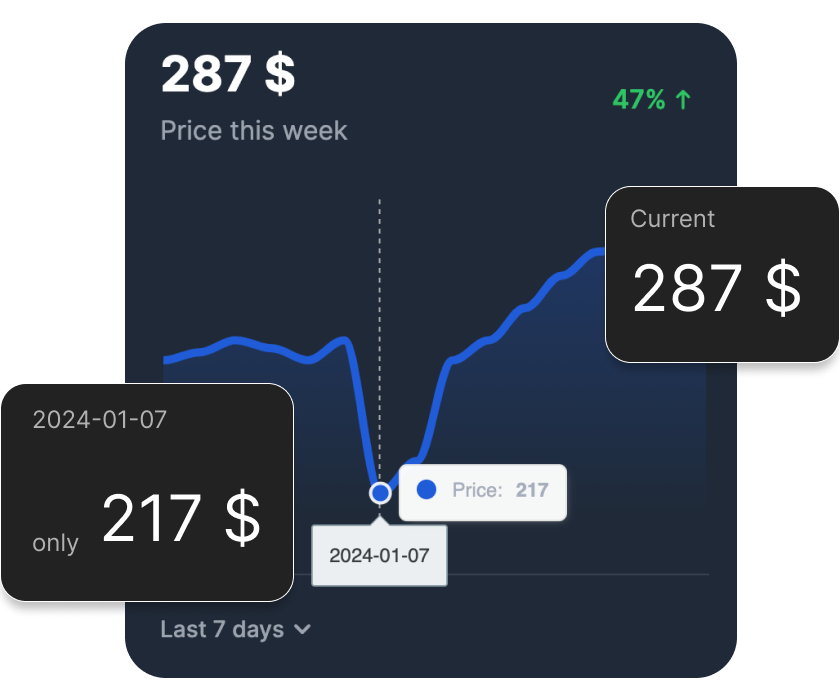
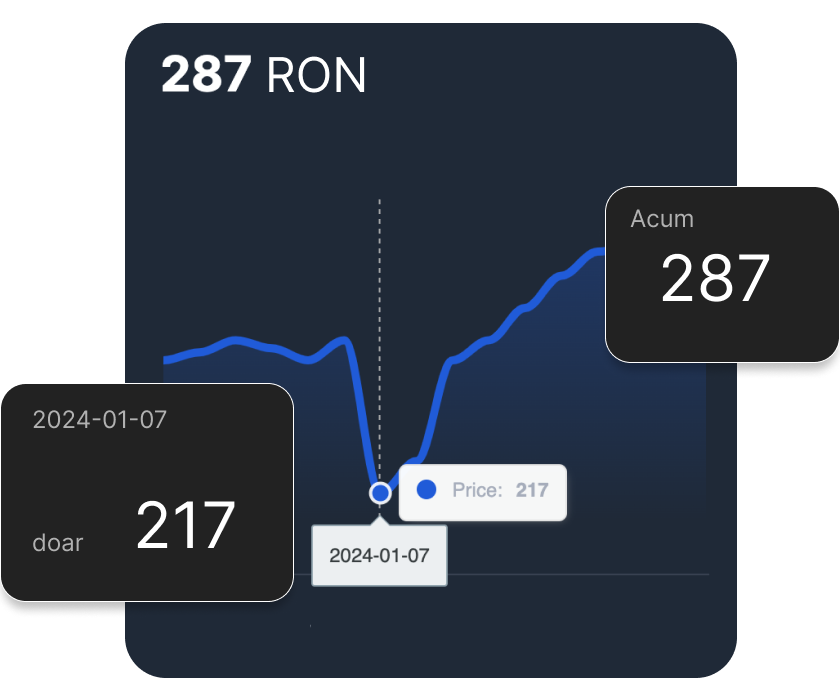
dev :  removed categories + translated in Romanian

diff --git a/components/FeaturesAccordion.js b/components/FeaturesAccordion.js
@@ -13,12 +13,12 @@ import { track } from '@vercel/analytics';
 // - alt: The alt text of the image (if type is 'image')
 const features = [
   {
-    title: "Alerts",
+    title: "Alerte",
     description:
-      "We send you automatic email alerts to ensure you never miss a price drop on your favorite products.",
+      "Recepționați notificări detaliate prin e-mail în momentul în care apar modificări de preț pentru produsele selectate, asigurându-vă astfel că rămâneți mereu la curent cu cele mai recente ajustări de tarife și oferte avantajoase.",
     type: "image",
     path: `${process.env.NODE_ENV === "development" ? "" : "https://MagSpy.app"}/emailExample.png`,
-    alt: "A computer",
+    alt: "Alert email example",
     svg: (
       <svg className="w-6 h-6 text-gray-800 dark:text-white" aria-hidden="true" xmlns="http://www.w3.org/2000/svg" width="24" height="24" fill="white" viewBox="0 0 24 24">
         <path d="M11.209 3.816a1 1 0 0 0-1.966.368l.325 1.74a5.338 5.338 0 0 0-2.8 5.762l.276 1.473.055.296c.258 1.374-.228 2.262-.63 2.998-.285.52-.527.964-.437 1.449.11.586.22 1.173.75 1.074l12.7-2.377c.528-.1.418-.685.308-1.27-.103-.564-.636-1.123-1.195-1.711-.606-.636-1.243-1.306-1.404-2.051-.233-1.085-.275-1.387-.303-1.587-.009-.063-.016-.117-.028-.182a5.338 5.338 0 0 0-5.353-4.39l-.298-1.592Z" />
@@ -29,9 +29,9 @@ const features = [
     ),
   },
   {
-    title: "Customise Alerts",
+    title: "Personalizare alerte",
     description:
-      "You can personalise your alerts to receive notifications only when the price drop, rises or is a custom value.",
+      "Aveți posibilitatea de a personaliza în detaliu alertele, astfel încât să primiți notificări doar pentru fluctuațiile de preț care corespund intereselor dumneavoastră. Puteți defini praguri de preț specifice și ajusta frecvența de primire a notificărilor, pentru a fi informat doar atunci când prețurile ating valorile dorite.",
     type: "image",
     path: `${process.env.NODE_ENV === "development" ? "" : "https://MagSpy.app"}/alertsEditExample.png`,
     alt: "A computer",
@@ -44,9 +44,9 @@ const features = [
     ),
   },
   {
-    title: "AI Technology",
+    title: "Tehnologie AI",
     description:
-      "We use AI to get the data about the products you want to monitor. This ensures you get the most accurate and up-to-date information.",
+      "Utilizăm inteligența artificială pentru a colecta și analiza datele referitoare la produsele pe care doriți să le monitorizați, garantând astfel accesul la cele mai precise și actualizate informații disponibile. Acest proces avansat asigură o monitorizare continuă și detaliată, oferindu-vă un avantaj competitiv în luarea deciziilor de cumpărare.",
       svg: (
       <svg className="w-[24px] h-[24px] text-gray-800 dark:text-white" aria-hidden="true" xmlns="http://www.w3.org/2000/svg" width="24" height="24" fill="white"  viewBox="0 0 24 24">
         <path fillRule="evenodd" d="M17.44 3a1 1 0 0 1 .707.293l2.56 2.56a1 1 0 0 1 0 1.414L18.194 9.78 14.22 5.806l2.513-2.513A1 1 0 0 1 17.44 3Zm-4.634 4.22-9.513 9.513a1 1 0 0 0 0 1.414l2.56 2.56a1 1 0 0 0 1.414 0l9.513-9.513-3.974-3.974ZM6 6a1 1 0 0 1 1 1v1h1a1 1 0 0 1 0 2H7v1a1 1 0 1 1-2 0v-1H4a1 1 0 0 1 0-2h1V7a1 1 0 0 1 1-1Zm9 9a1 1 0 0 1 1 1v1h1a1 1 0 1 1 0 2h-1v1a1 1 0 1 1-2 0v-1h-1a1 1 0 1 1 0-2h1v-1a1 1 0 0 1 1-1Z" clipRule="evenodd" />
@@ -56,9 +56,9 @@ const features = [
     ),
   },
   {
-    title: "Graphs and Charts",
+    title: "Grafice și diagrame",
     description:
-      "We provide you with graphs and charts to help you understand the price trends of the products you are monitoring.",
+      "Vă punem la dispoziție grafice și diagrame interactive, concepute pentru a vă oferi o perspectivă clară asupra tendințelor de preț ale produselor pe care le monitorizați. Aceste instrumente vizuale vă ajută să analizați fluctuațiile în timp real și să identificați cele mai bune momente pentru achiziție.",
     type: "image",
     path: `${process.env.NODE_ENV === "development" ? "" : "https://MagSpy.app"}/graphsExample.png`,
     
@@ -166,9 +166,9 @@ const FeaturesAccordion = () => {
     >
       <div className="px-8">
         <h2 className="font-extrabold text-4xl lg:text-6xl tracking-tight mb-12 md:mb-24">
-          All you need to monitor prices and purchase
+            Tot ce ai nevoie pentru a monitoriza prețurile
           <span className="bg-neutral text-neutral-content px-2 md:px-4 ml-1 md:ml-1.5 leading-relaxed whitespace-nowrap">
-            at the best
+          eficient
           </span>
         </h2>
         <div className=" flex flex-col md:flex-row gap-12 md:gap-24">

diff --git a/app/dashboard/products/[productId]/alerts/[alertId]/page.js b/app/dashboard/products/[productId]/alerts/[alertId]/page.js
@@ -20,20 +20,20 @@ export default async function EditAlertPage({ params:{ alertId , productId } }) 
         <DeleteAlertDialogue alertId={alertId} productId={productId}/>
       </div>
 
-      <h1 className="text-xl m-5">Edit <span className='text-white text-2xl'>{alertData.name}</span></h1>
+      <h1 className="text-xl m-5">Modifica <span className='text-white text-2xl'>{alertData.name}</span></h1>
 
       <form action={EditAlert}  className="max-w-sm mx-auto">
         <input type="text" name="productId" value={productId} className="hidden" />
         <input type="text" name="alertId" value={alertId} className="hidden" />
         <div className="mb-5">
-          <label className="block mb-2 text-sm font-medium text-gray-900 dark:text-white">Rename your alert</label>
+          <label className="block mb-2 text-sm font-medium text-gray-900 dark:text-white">Redenumeste alerta</label>
           {/* <input type="text" name="name" class="bg-gray-50 border border-gray-300 text-gray-900 text-sm rounded-lg focus:ring-blue-500 focus:border-blue-500 block w-full p-2.5 dark:bg-gray-700 dark:border-gray-600 dark:placeholder-gray-400 dark:text-white dark:focus:ring-blue-500 dark:focus:border-blue-500" placeholder={alertData.name} required /> */}
           <EditTextInput name={"name"} placeholder={alertData.name} />
         </div>
         <div className="mb-5">
-          <label className="block mb-2 text-sm font-medium text-gray-900 dark:text-white">Alert me when</label>
+          <label className="block mb-2 text-sm font-medium text-gray-900 dark:text-white">Trimite o alerta cand</label>
           <div className='flex justify-center items-center'>
-            <p className='w-1/3'>Product Price</p>
+            <p className='w-1/3'>Pretul produsului</p>
 
             <AlertTypeSelector currentType={alertData.typeof} />
 
@@ -42,12 +42,13 @@ export default async function EditAlertPage({ params:{ alertId , productId } }) 
           </div>
         </div>
 
-        <button type="submit" className="text-white bg-blue-500 hover:bg-blue-800 focus:ring-4 focus:outline-none focus:ring-blue-300 font-medium rounded-lg text-sm w-full sm:w-auto px-5 py-2.5 text-center dark:bg-blue-600 dark:hover:bg-blue-700 dark:focus:ring-blue-800">Update</button>
+        <button type="submit" className="text-white bg-blue-500 hover:bg-blue-800 focus:ring-4 focus:outline-none focus:ring-blue-300 font-medium rounded-lg text-sm w-full sm:w-auto px-5 py-2.5 text-center dark:bg-blue-600 dark:hover:bg-blue-700 dark:focus:ring-blue-800">Modifica</button>
       </form>
       
     </div>):(
       <div className="flex justify-center items-center h-96">
-        <h1 className="text-2xl text-gray-500">This product is not available anymore in the free plan. Please upgrade to manage this product.</h1>
+        <h1 className="text-2xl text-gray-500">Acest produs nu mai este disponibil în planul gratuit. Vă rugăm să faceți upgrade pentru a gestiona acest produs.
+        </h1>
       </div>
     )
   );

diff --git a/components/FAQ.js b/components/FAQ.js
@@ -8,22 +8,19 @@ import { track } from '@vercel/analytics';
 
 const faqList = [
   {
-    question: "What do I get exactly?",
-    answer: <div className="space-y-2 leading-relaxed">You get a tool that helps you track the prices of your favorite products. You can set up alerts and get notified when the price drops. You can also see the price history of the products you are tracking.</div>,
+    question: "Ce primesc mai exact?",
+    answer: <div className="space-y-2 leading-relaxed">Obțineți un instrument care vă ajută să urmăriți prețurile produselor preferate. Puteți configura alerte și puteți primi notificări când prețul scade. De asemenea, puteți vedea istoricul prețurilor produselor pe care le urmăriți.</div>,
   },
   {
-    question: "Can I get a refund?",
+    question: "Pot primi o rambursare?",
     answer: (
-      <p>
-        Yes! You can request a refund within 7 days of your purchase. Reach out
-        by email.
-      </p>
+      <p> Da! Puteți solicita o rambursare în termen de 7 zile de la achiziție. Contactați prin e-mail sau <span><a className="text-white text-bold" href="/support">aici</a></span>.</p>
     ),
   },
   {
-    question: "How does this app checks the prices?",
+    question: "Cum verifică această aplicație prețurile?",
     answer: (
-      <div className="space-y-2 leading-relaxed">We use advanced algorithms to get the prices of the products you are tracking. We also use the latest technologies to make sure the prices are accurate.</div>
+      <div className="space-y-2 leading-relaxed">Folosim algoritmi avansați pentru a obține prețurile produselor pe care le monitorizati. De asemenea, folosim cele mai noi tehnologii pentru a ne asigura că prețurile sunt corecte.</div>
     ),
   },
 ];
@@ -96,7 +93,7 @@ const FAQ = () => {
         <div className="flex flex-col text-left basis-1/2">
           <p className="inline-block font-semibold text-primary mb-4">FAQ</p>
           <p className="sm:text-4xl text-3xl font-extrabold text-base-content">
-            Frequently Asked Questions
+          Întrebări frecvente
           </p>
         </div>
 

diff --git a/components/own/dashboard/DeleteProductDialogue.js b/components/own/dashboard/DeleteProductDialogue.js
@@ -47,13 +47,13 @@ export default function DeleteProductDialogue({ productId }) {
                 <svg className="mx-auto mb-4 text-gray-400 w-12 h-12 dark:text-gray-200" aria-hidden="true" xmlns="http://www.w3.org/2000/svg" fill="none" viewBox="0 0 20 20">
                   <path stroke="currentColor" strokeLinecap="round" strokeLinejoin="round" strokeWidth="2" d="M10 11V6m0 8h.01M19 10a9 9 0 1 1-18 0 9 9 0 0 1 18 0Z" />
                 </svg>
-                <h3 className="mb-5 text-lg font-normal text-gray-500 dark:text-gray-400">Are you sure you want to delete this product?</h3>
+                <h3 className="mb-5 text-lg font-normal text-gray-500 dark:text-gray-400">Sigur doriți să ștergeți acest produs? </h3>
                 <button
                   onClick={deleteProduct}
                   type="button"
                   className="text-white bg-red-600 hover:bg-red-800 focus:ring-4 focus:outline-none focus:ring-red-300 dark:focus:ring-red-800 font-medium rounded-lg text-sm inline-flex items-center px-5 py-2.5 text-center"
                 >
-                  Yes, I am sure
+                  Da, doresc să șterg
                 </button>
 
                 <button
@@ -61,7 +61,7 @@ export default function DeleteProductDialogue({ productId }) {
                   type="button"
                   className="py-2.5 px-5 ms-3 text-sm font-medium text-gray-900 focus:outline-none bg-white rounded-lg border border-gray-200 hover:bg-gray-100 hover:text-blue-700 focus:z-10 focus:ring-4 focus:ring-gray-100 dark:focus:ring-gray-700 dark:bg-gray-800 dark:text-gray-400 dark:border-gray-600 dark:hover:text-white dark:hover:bg-gray-700"
                 >
-                  No, cancel
+                  Anulează
                 </button>
               </div>
             </div>

diff --git a/components/Footer.js b/components/Footer.js
@@ -40,7 +40,7 @@ const Footer = () => {
           <div className="flex-grow flex flex-wrap justify-center -mb-10 md:mt-0 mt-10 text-center">
             <div className="lg:w-1/3 md:w-1/2 w-full px-4">
               <div className="footer-title font-semibold text-base-content tracking-widest text-sm md:text-left mb-3">
-                LINKS
+              LINK-URI WEB
               </div>
 
               <div className="flex flex-col justify-center items-center md:items-start gap-2 mb-10 text-sm">
@@ -51,11 +51,11 @@ const Footer = () => {
                     className="link link-hover"
                     aria-label="Contact Support"
                   >
-                    Support
+                    Suport
                   </a>
                 )}
                 <a href="/#pricing" className="link link-hover">
-                  Pricing
+                  Prețuri
                 </a>
                 {/* <a href="/blog" className="link link-hover">
                   Blog
@@ -68,15 +68,15 @@ const Footer = () => {
 
             <div className="lg:w-1/3 md:w-1/2 w-full px-4">
               <div className="footer-title font-semibold text-base-content tracking-widest text-sm md:text-left mb-3">
-                LEGAL
+                LEGALE
               </div>
 
               <div className="flex flex-col justify-center items-center md:items-start gap-2 mb-10 text-sm">
                 <a href="/terms" className="link link-hover">
-                  Terms and conditions
+                  Termeni și condiții
                 </a>
                 <a href="/privacy-policy" className="link link-hover">
-                  Privacy policy
+                  Politica de confidențialitate
                 </a>
               </div>
             </div>

diff --git a/components/own/dashboard/PriceChart.js b/components/own/dashboard/PriceChart.js
@@ -3,7 +3,6 @@
 import React, { useEffect, useState } from 'react';
 import dynamic from 'next/dynamic';
 import { getPriceHistory } from "@/libs/API/price";
-import { se } from 'date-fns/locale';
 
 // Dynamically import the ReactApexChart component with no SSR
 const ReactApexChart = dynamic(() => import('react-apexcharts'), { ssr: false });
@@ -81,7 +80,7 @@ export default function PriceChart({ productId }) {
     },
     series: [
       {
-        name: "Price",
+        name: "Preț",
         data: prices,
         color: "#1A56DB",
       },
@@ -108,7 +107,7 @@ export default function PriceChart({ productId }) {
       <div className="flex justify-between">
         <div>
           <h5 className="leading-none text-3xl font-bold text-gray-900 dark:text-white pb-2">{prices[prices.length-1]} {dates.length === 0 ? "" : productData.currency}</h5>
-          <p className="text-base font-normal text-gray-500 dark:text-gray-400">Price graph </p>
+          <p className="text-base font-normal text-gray-500 dark:text-gray-400">Pretul actual</p>
         </div>
         <div className="flex items-center px-2.5 py-0.5 text-base font-semibold text-green-500 dark:text-green-500 text-center">
           {/* {grow_percent} */}
@@ -123,7 +122,7 @@ export default function PriceChart({ productId }) {
             <div className="w-10 h-10 border-2 border-t-2 border-gray-200 rounded-full animate-spin">
               <h1>.</h1>
             </div>
-            <h1 className='m-5'>No data yet!</h1>
+            <h1 className='m-5'>Nu există date încă !</h1>
           </div>
         ) : (
           <ReactApexChart options={options} series={options.series} type="area" height="300%" width="100%" />

diff --git a/config.js b/config.js
@@ -25,15 +25,15 @@ const config = {
             ? "price_1Niyy5AxyNprDp7iZIqEyD2h"
             : "price_456",
         //  REQUIRED - Name of the plan, displayed on the pricing page
-        name: "Starter",
+        name: "Începător",
         // A friendly description of the plan, displayed on the pricing page. Tip: explain why this plan and not others
-        description: "Test this app for free",
+        description: "Testați această aplicație gratuit",
         // The price you want to display, the one user will be charged on Stripe.
         price: 0,
         // If you have an anchor price (i.e. $29) that you want to display crossed out, put it here. Otherwise, leave it empty
         features: [
-          { name: "Track 1 product",},
-          { name: "Email notifications" },
+          { name: "Monitorizati 1 produs",},
+          { name: "Notificari pe Email" },
           // { name: "1 customised alert" },
         ],
       },
@@ -45,13 +45,13 @@ const config = {
             ? "price_1PqtBlLcXwqt5lPFnKcVXvxO"
             : "price_1PwlGMLcXwqt5lPFCBrlvQTA",
         name: "Business",
-        description: "You are an entrepreneur, you know what you are doing",
+        description: "Ai nevoie de mai multă putere",
         price: 12,
         priceAnchor: 17,
         features: [
-          {name: "Unlimited products",},
-          { name: "Unlimited alerts" },
-          { name: "Email notifications" },
+          {name: "Produse nelimitate",},
+          { name: "Alerte personalizate nelimitate" },
+          { name: "Notificari pe Email" },
         ],
       },
       // {

diff --git a/components/own/dashboard/AddedObject.js b/components/own/dashboard/AddedObject.js
@@ -6,7 +6,7 @@ import { toast } from "react-hot-toast";
 
 export default function AddedObject({ name, isActive, imageUrl, id ,lastPrice,currency}) {
 	function NotifyUser(){
-		toast.error("This product is not available anymore in the free plan. Please upgrade to access this feature.");
+		toast.error("Acest produs nu mai este disponibil în planul gratuit. Vă rugăm să faceți upgrade pentru a-l accesa.");
 	}
 
 
@@ -32,12 +32,12 @@ export default function AddedObject({ name, isActive, imageUrl, id ,lastPrice,cu
 				<div className="flex items-center justify-between">
 					
 					{isActive ? (<a href={`/dashboard/products/${id}/stats`} className="mt-2 w-auto py-2 px-2 inline-flex items-center px-1 py-1 text-sm font-medium text-center text-white bg-blue-700 rounded-lg hover:bg-blue-800 focus:ring-4 focus:outline-none focus:ring-blue-300 dark:bg-blue-600 dark:hover:bg-blue-700 dark:focus:ring-blue-800">
-						More
+						Detalii
 						<svg className="rtl:rotate-180 w-3.5 h-3.5 ms-1" aria-hidden="true" xmlns="http://www.w3.org/2000/svg" fill="none" viewBox="0 0 14 10">
 							<path stroke="currentColor" strokeLinecap="round" strokeLinejoin="round" strokeWidth="2" d="M1 5h12m0 0L9 1m4 4L9 9" />
 						</svg>
 					</a>) : (<></>)}
-					{lastPrice} {!lastPrice ? "" :currency}
+					{lastPrice?.toString().length >=5 ? lastPrice?.toString().slice(0,5) : lastPrice } {!lastPrice ? "" :currency}
 				</div>
 			</div>
 		</div>

diff --git a/components/Problem.js b/components/Problem.js
@@ -44,22 +44,22 @@ const Problem = () => {
     <section className="bg-neutral text-neutral-content">
       <div className="max-w-7xl mx-auto px-8 py-16 md:py-32 text-center">
         <h2 className="max-w-3xl mx-auto font-extrabold text-4xl md:text-5xl tracking-tight mb-6 md:mb-8">
-          You can&apos;t monitor price changes 24/7
+          Nu puteți monitoriza modificările prețurilor 24/7
         </h2>
         <p className="max-w-xl mx-auto text-lg opacity-90 leading-relaxed mb-12 md:mb-20">
-          Constantly monitoring fluctuating prices is exhausting and impractical
+        Monitorizarea constantă a prețurilor fluctuante este obositoare și nepractică
         </p>
 
         <div className="flex flex-col md:flex-row justify-center items-center md:items-start gap-6">
-          <Step emoji="🧑💻" text="Check price very soon" />
+          <Step emoji="🧑💻" text="Verifici prețul foarte des" />
 
           <Arrow extraStyle="max-md:-scale-x-100 md:-rotate-90" />
 
-          <Step emoji="😮💨" text="You lose focus" />
+          <Step emoji="😮💨" text="Pierzi focusul" />
 
           <Arrow extraStyle="md:-scale-x-100 md:-rotate-90" />
 
-          <Step emoji="😔" text="Even you tried your best, you failed" />
+          <Step emoji="😔" text="Desi ai încercat tot posibilul, ai eșuat !" />
         </div>
       </div>
     </section>

diff --git a/components/own/dashboard/SideBar.js b/components/own/dashboard/SideBar.js
@@ -49,7 +49,7 @@ export default function SideBar({ children }) {
 									<path fillRule="evenodd" d="M14 7h-4v3a1 1 0 0 1-2 0V7H6a1 1 0 0 0-.997.923l-.917 11.924A2 2 0 0 0 6.08 22h11.84a2 2 0 0 0 1.994-2.153l-.917-11.924A1 1 0 0 0 18 7h-2v3a1 1 0 1 1-2 0V7Zm-2-3a2 2 0 0 0-2 2v1H8V6a4 4 0 0 1 8 0v1h-2V6a2 2 0 0 0-2-2Z" clipRule="evenodd" />
 								</svg>
 
-								<span className="flex-1 ms-3 whitespace-nowrap">Products</span>
+								<span className="flex-1 ms-3 whitespace-nowrap">Produse</span>
 							</a>
 						</li>
 						<li>
@@ -59,7 +59,7 @@ export default function SideBar({ children }) {
 									<path fillRule="evenodd" d="M18.458 3.11A1 1 0 0 1 19 4v16a1 1 0 0 1-1.581.814L12 16.944V7.056l5.419-3.87a1 1 0 0 1 1.039-.076ZM22 12c0 1.48-.804 2.773-2 3.465v-6.93c1.196.692 2 1.984 2 3.465ZM10 8H4a1 1 0 0 0-1 1v6a1 1 0 0 0 1 1h6V8Zm0 9H5v3a1 1 0 0 0 1 1h3a1 1 0 0 0 1-1v-3Z" clipRule="evenodd" />
 								</svg>
 
-								<span className="flex-1 ms-3 whitespace-nowrap">Alerts</span>
+								<span className="flex-1 ms-3 whitespace-nowrap">Alerte</span>
 								{/* <span className="inline-flex items-center justify-center w-3 h-3 p-3 ms-3 text-sm font-medium text-blue-800 bg-blue-100 rounded-full dark:bg-blue-900 dark:text-blue-300">10</span> */}
 							</a>
 						</li>

diff --git a/components/Hero.js b/components/Hero.js
@@ -10,10 +10,11 @@ const Hero = () => {
     <section className="max-w-7xl mx-auto bg-base-100 flex flex-col lg:flex-row items-center justify-center gap-16 lg:gap-20 px-8 py-8 lg:py-20">
       <div className="flex flex-col gap-10 lg:gap-14 items-center justify-center text-center lg:text-left lg:items-start">
         <h1 className="font-extrabold text-4xl lg:text-6xl tracking-tight md:-mb-4">
-          Track product prices and get notified when they drop
+          Nu mai rata niciodată o scădere de preț !
+
         </h1>
         <p className="text-lg opacity-80 leading-relaxed">
-          We constantly monitor the prices of your favorite products and alert you when its best time to buy
+          Monitorizăm constant prețurile produselor tale preferate și te avertizăm când este cel mai bun moment pentru a cumpăra
         </p>
         {/* <button className="btn btn-primary btn-wide">
           Get {config.appName}
@@ -22,7 +23,7 @@ const Hero = () => {
         <a href="/session"
           className="btn btn-primary btn-wide"
         >
-          Check out the demo
+          Încercați demo gratuit
         </a>
 
         {/* <TestimonialsAvatars priority={true} /> */}

diff --git a/components/ButtonCheckout.js b/components/ButtonCheckout.js
@@ -47,7 +47,7 @@ const ButtonCheckout = ({ priceId, mode = "subscription" }) => {
           <path d="M249.685 14.125C249.685 11.5046 248.913 8.94218 247.465 6.75675C246.017 4.57133 243.957 2.85951 241.542 1.83453C239.126 0.809546 236.463 0.516683 233.882 0.992419C231.301 1.46815 228.917 2.69147 227.028 4.50999L179.466 50.1812C108.664 118.158 48.8369 196.677 2.11373 282.944C0.964078 284.975 0.367442 287.272 0.38324 289.605C0.399039 291.938 1.02672 294.226 2.20377 296.241C3.38082 298.257 5.06616 299.929 7.09195 301.092C9.11775 302.255 11.4133 302.867 13.75 302.869H129.042V494.875C129.039 497.466 129.791 500.001 131.205 502.173C132.62 504.345 134.637 506.059 137.01 507.106C139.383 508.153 142.01 508.489 144.571 508.072C147.131 507.655 149.516 506.503 151.432 504.757L172.698 485.394C247.19 417.643 310.406 338.487 359.975 250.894L373.136 227.658C374.292 225.626 374.894 223.327 374.882 220.99C374.87 218.653 374.243 216.361 373.065 214.341C371.887 212.322 370.199 210.646 368.17 209.482C366.141 208.318 363.841 207.706 361.5 207.707H249.685V14.125Z" />
         </svg>
       )}
-      Get {config?.appName}
+      Obţine {config?.appName}
     </button>
   );
 };
